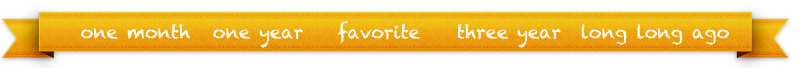
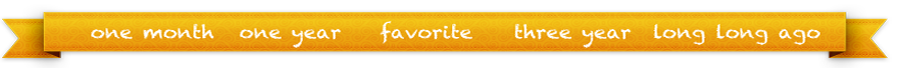
photo page

diff --git a/war/style/photoalbum.css b/war/style/photoalbum.css
@@ -77,7 +77,7 @@
 .plist-header {
 	width: 800px;
 	height: 68px;
-	margin-left: 40px;
+	margin-left: 38px;
 }
 
 .header-background {
@@ -85,12 +85,12 @@
 	z-index: 3;
 }
 
-.head-choice1 {
+#head-choice1 {
 	position: absolute;
 	display: block;
-	width: 143px;
+	width: 162px;
 	height: 42px;
-	margin-left: 55px;
+	margin-left: 60px;
 	margin-top: 10px;
 	line-height: 44px;
 	border: 1px solid black;
@@ -98,66 +98,75 @@
 	line-height: 44px;
 }
 
-.head-choice2 {
+#head-choice2 {
 	position: absolute;
 	display: block;
-	width: 120px;
+	width: 129px;
 	height: 42px;
-	margin-left: 199px;
+	margin-left: 223px;
 	margin-top: 10px;
 	line-height: 44px;
 	border: 1px solid black;
 	z-index: 6;
 }
 
-.head-choice3 {
+#head-choice3 {
 	position: absolute;
 	display: block;
-	width: 120px;
+	width: 130px;
 	height: 42px;
-	margin-left: 320px;
+	margin-left: 353px;
 	margin-top: 10px;
 	line-height: 44px;
 	border: 1px solid black;
 	z-index: 6;
 }
 
-.head-choice4 {
+#head-choice4 {
 	position: absolute;
 	display: block;
-	width: 127px;
+	width: 154px;
 	height: 42px;
-	margin-left: 441px;
+	margin-left: 484px;
 	margin-top: 10px;
 	line-height: 44px;
 	border: 1px solid black;
 	z-index: 6;
 }
 
-.head-choice5 {
+#head-choice5 {
 	position: absolute;
 	display: block;
-	width: 163px;
+	width: 180px;
 	height: 42px;
-	margin-left: 569px;
+	margin-left: 639px;
 	margin-top: 10px;
 	line-height: 44px;
 	border: 1px solid black;
 	z-index: 6;
 }
 
-.head-choice1:HOVER{
+.choice:HOVER {
 	background-color: white;
 }
 
-.plist-content {
+#plist-content {
 	position: absolute;
 	margin-top: -18px;
-	margin-left: 95px;
-	background-color: white;
-	width: 681px;
+	margin-left: 100px;
+	background-color: rgb(103,103,103);
+	width: 765px;
 	height: 600px;
-	border-radius: 6px;
 	box-shadow: 0 2px 2px rgba(0, 0, 0, 0.5);
 	z-index: 2;
+	overflow-y: scroll;
+}
+
+#plist-footer {
+	position: absolute;
+	z-index: 4;
+	margin-left: 100px;
+	margin-top: 571px;
+	width: 765px;
+	box-shadow: 0 2px 2px rgba(0, 0, 0, 0.5);
 }

diff --git a/war/photoalbum.html b/war/photoalbum.html
@@ -34,13 +34,14 @@
 				<div class='plist-header'>
 					<img class='header-background'
 						src='/images/photoheader-background.png' /> <a
-						class='head-choice1' href='chat.html'></a> <a class='head-choice2'
-						href='chat.html'></a> <a class='head-choice3' href='chat.html'></a>
-					<a class='head-choice4' href='chat.html'></a> <a
-						class='head-choice5' href='chat.html'></a>
+						id='head-choice1' class='choice' href='chat.html'></a> <a id='head-choice2' class='choice'
+						href='chat.html'></a> <a id='head-choice3' class='choice' href='chat.html'></a>
+					<a id='head-choice4' class='choice' href='chat.html'></a> <a
+						id='head-choice5' class='choice' href='chat.html'></a>
 				</div>
 
-				<div class='plist-content'></div>
+				<div id='plist-content'></div>
+				<div	id='plist-footer'><img id='foot-img'src='/images/photofooter.png'></div>
 			</div>
 			<div style='clear: both;'></div>
 		</div>
